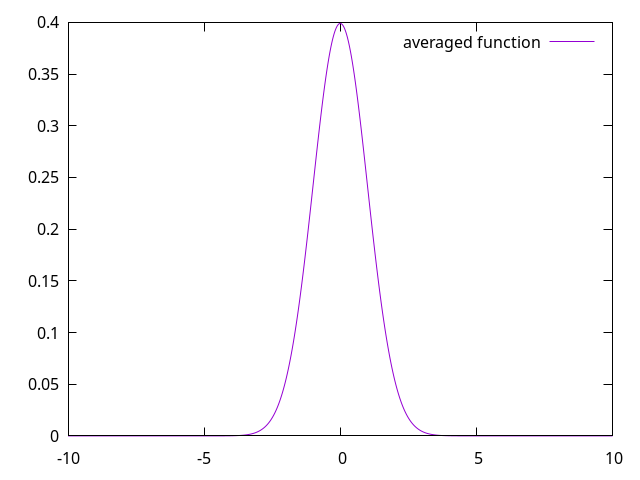
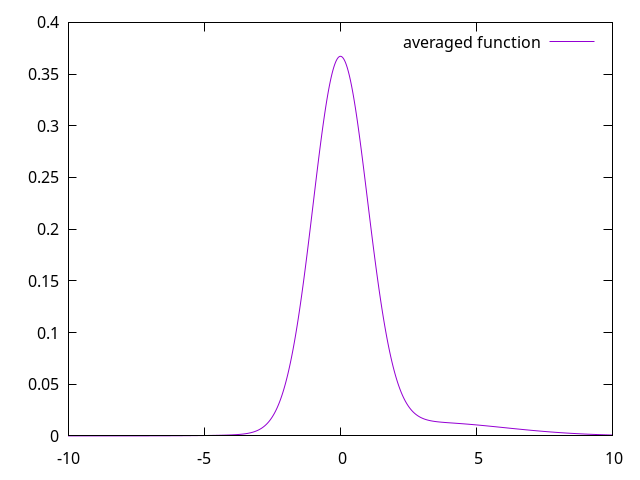
made the graph domain and range definitions more usefull

diff --git a/index.py b/index.py
@@ -10,12 +10,12 @@ x = sp.symbols('x')
 
 ## gnuplot setup
 h = 60
-w = h/2
+w = 10
 # size '+ str(h)+','+str(m.floor(h/2))
 plane = gp.Gnuplot(terminal = 'pngcairo',
     output = '"graph.png"',
-    xrange= '[-10:10]'#,
-    #yrange = '[ -2 to 2 ]'
+    xrange= f'[-{w}:{w}]',
+    yrange = '[ 0 to  ]'
 )
 
 plane.cmd('set samples 1000')
